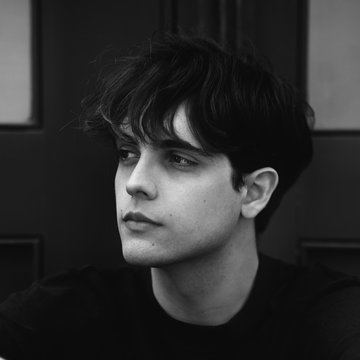
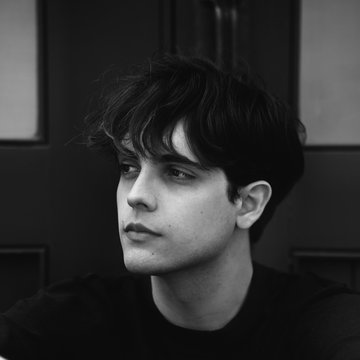
Luis's portrait: a tiny bit less zoom (Louis #5005)
Claude-Session: https://claude.ai/code/session_01FXTK2WeDEVEHvdFuz1vU9H

diff --git a/CLAUDE.md b/CLAUDE.md
@@ -319,7 +319,7 @@ legal name (`legal_name`, Luis R. P. Andrada) still stays in legal statements on
 - NO HERO (Louis, 2026-10-14): luis.andrada.one opens right on the resume, the menu only in the header (`plain = true`
   in `params.faces.luis`; faces.html gives a plain face no hero behaviour, and menus link it without a #hash). A small
   SQUARE portrait (`avatar`, `static/images/luis/portrait-small.jpg`, 360px) sits on top of his name; `image` (the
-  1000px `portrait.jpg`; both from the B&W photo Louis sent 2026-10-28 (council picture #37, 1367×2048), cut square around the face, 1080px from (60, 110), no arms: Louis #5001, no metadata) is for link previews.
+  1000px `portrait.jpg`; both from the B&W photo Louis sent 2026-10-28 (council picture #37, 1367×2048), cut square around the face, 1140px from (35, 40), no arms: Louis #5001, #5005, no metadata) is for link previews.
   The pinned cluster (title, section links that follow the scroll, LinkedIn, Contact; `.book-page-header` +
   `body.page-books` like the other faces; hidden on phones, where the resume's head carries the links). The resume
   is CENTRED on the screen and the cluster sits a short gap to its left (`--cr-rx/--cr-cl/--cr-gap/--cr-col`; Louis:
